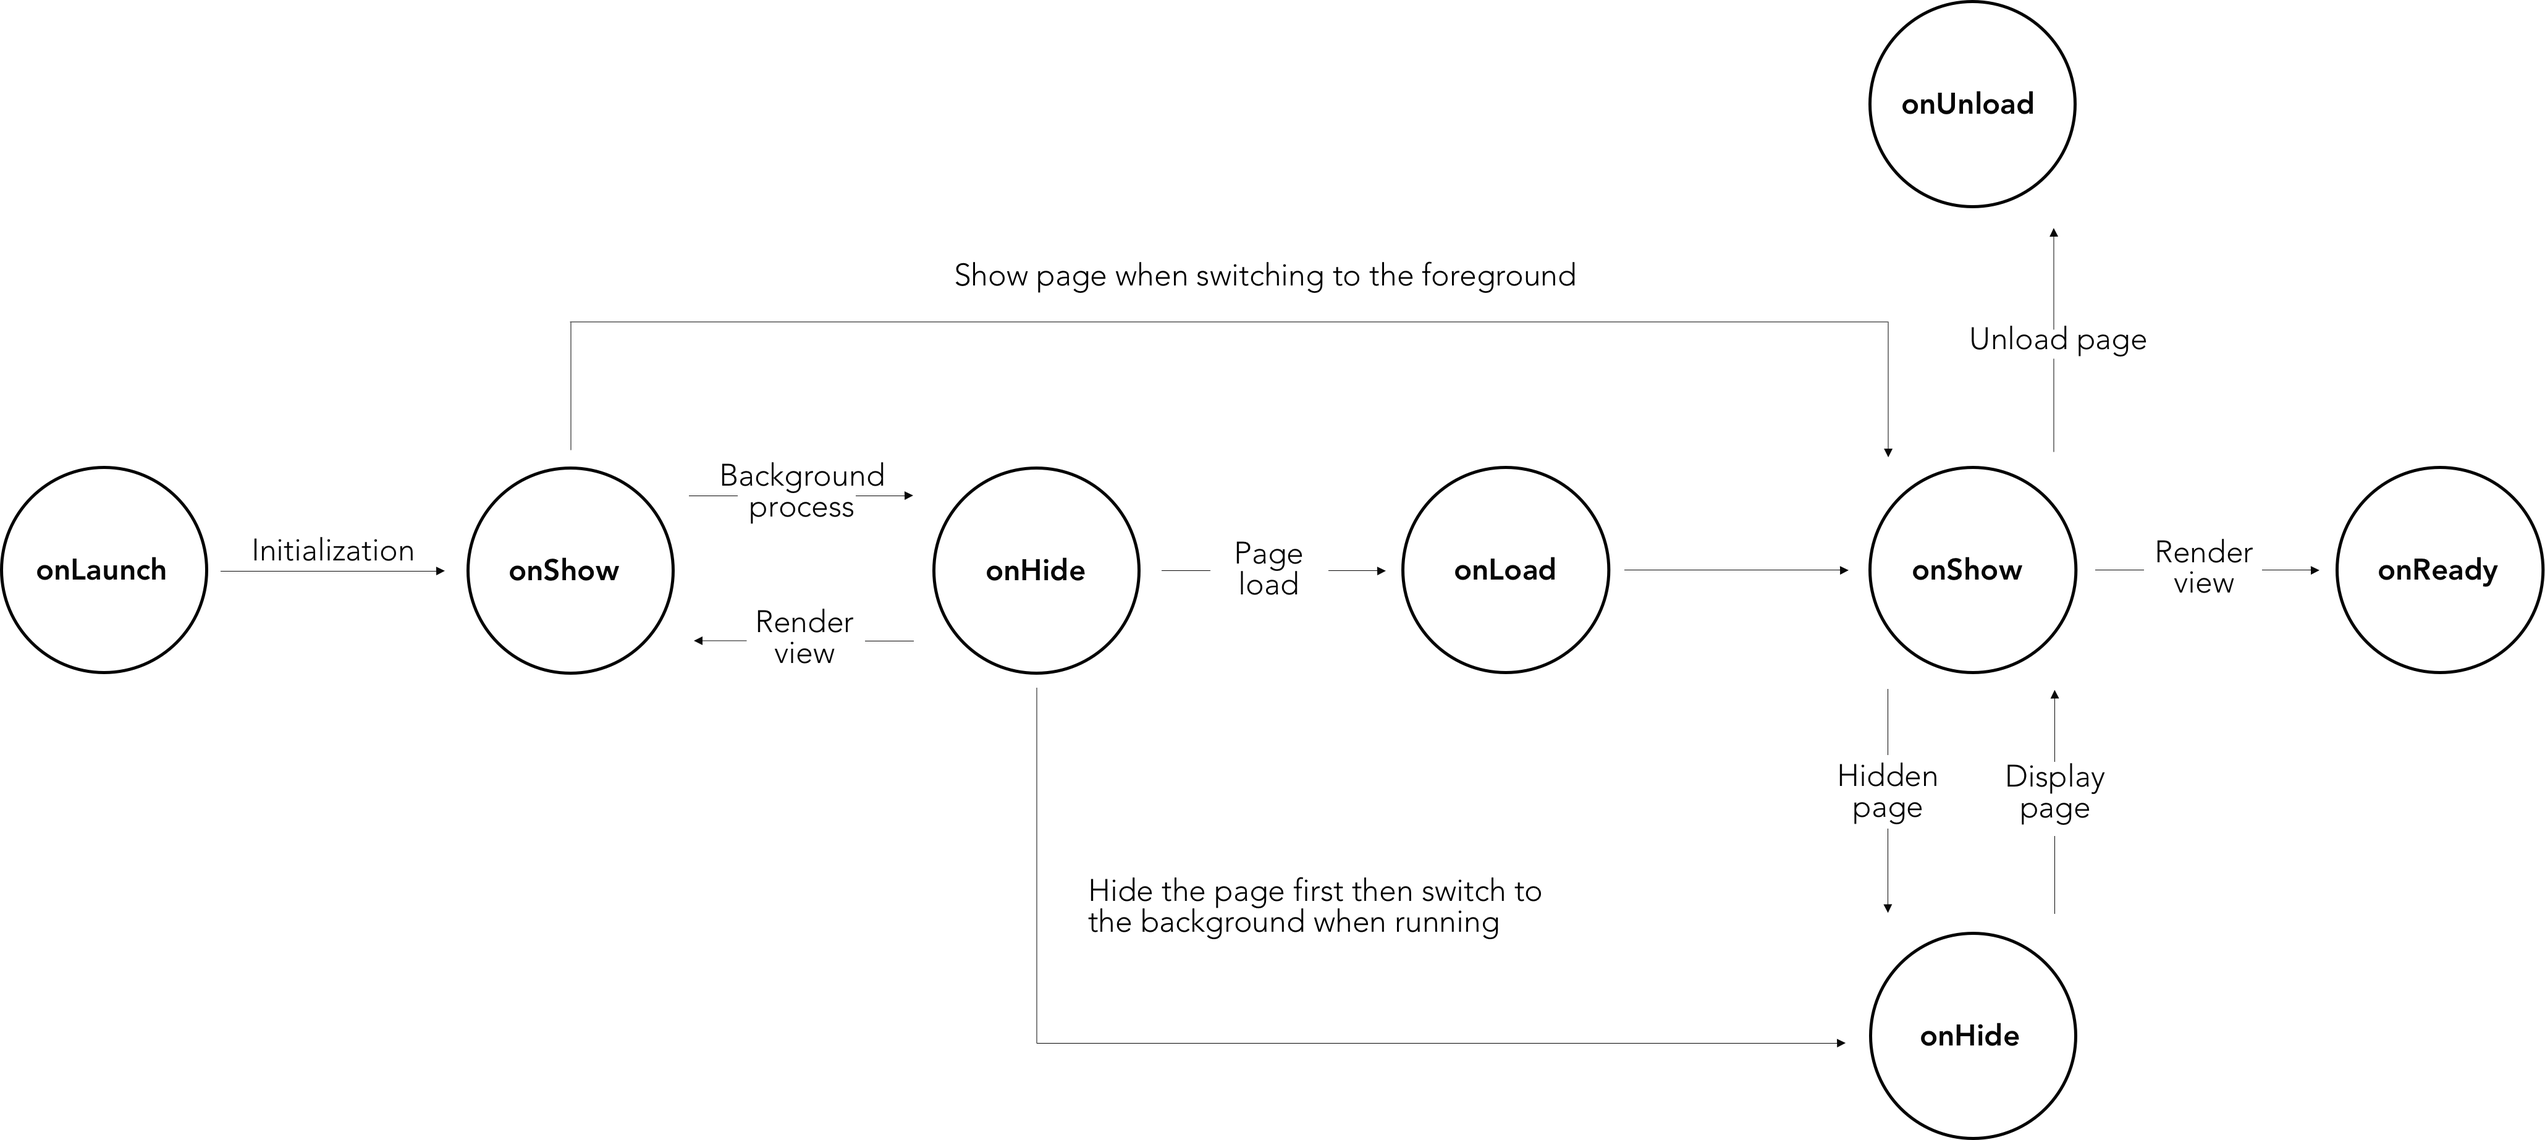
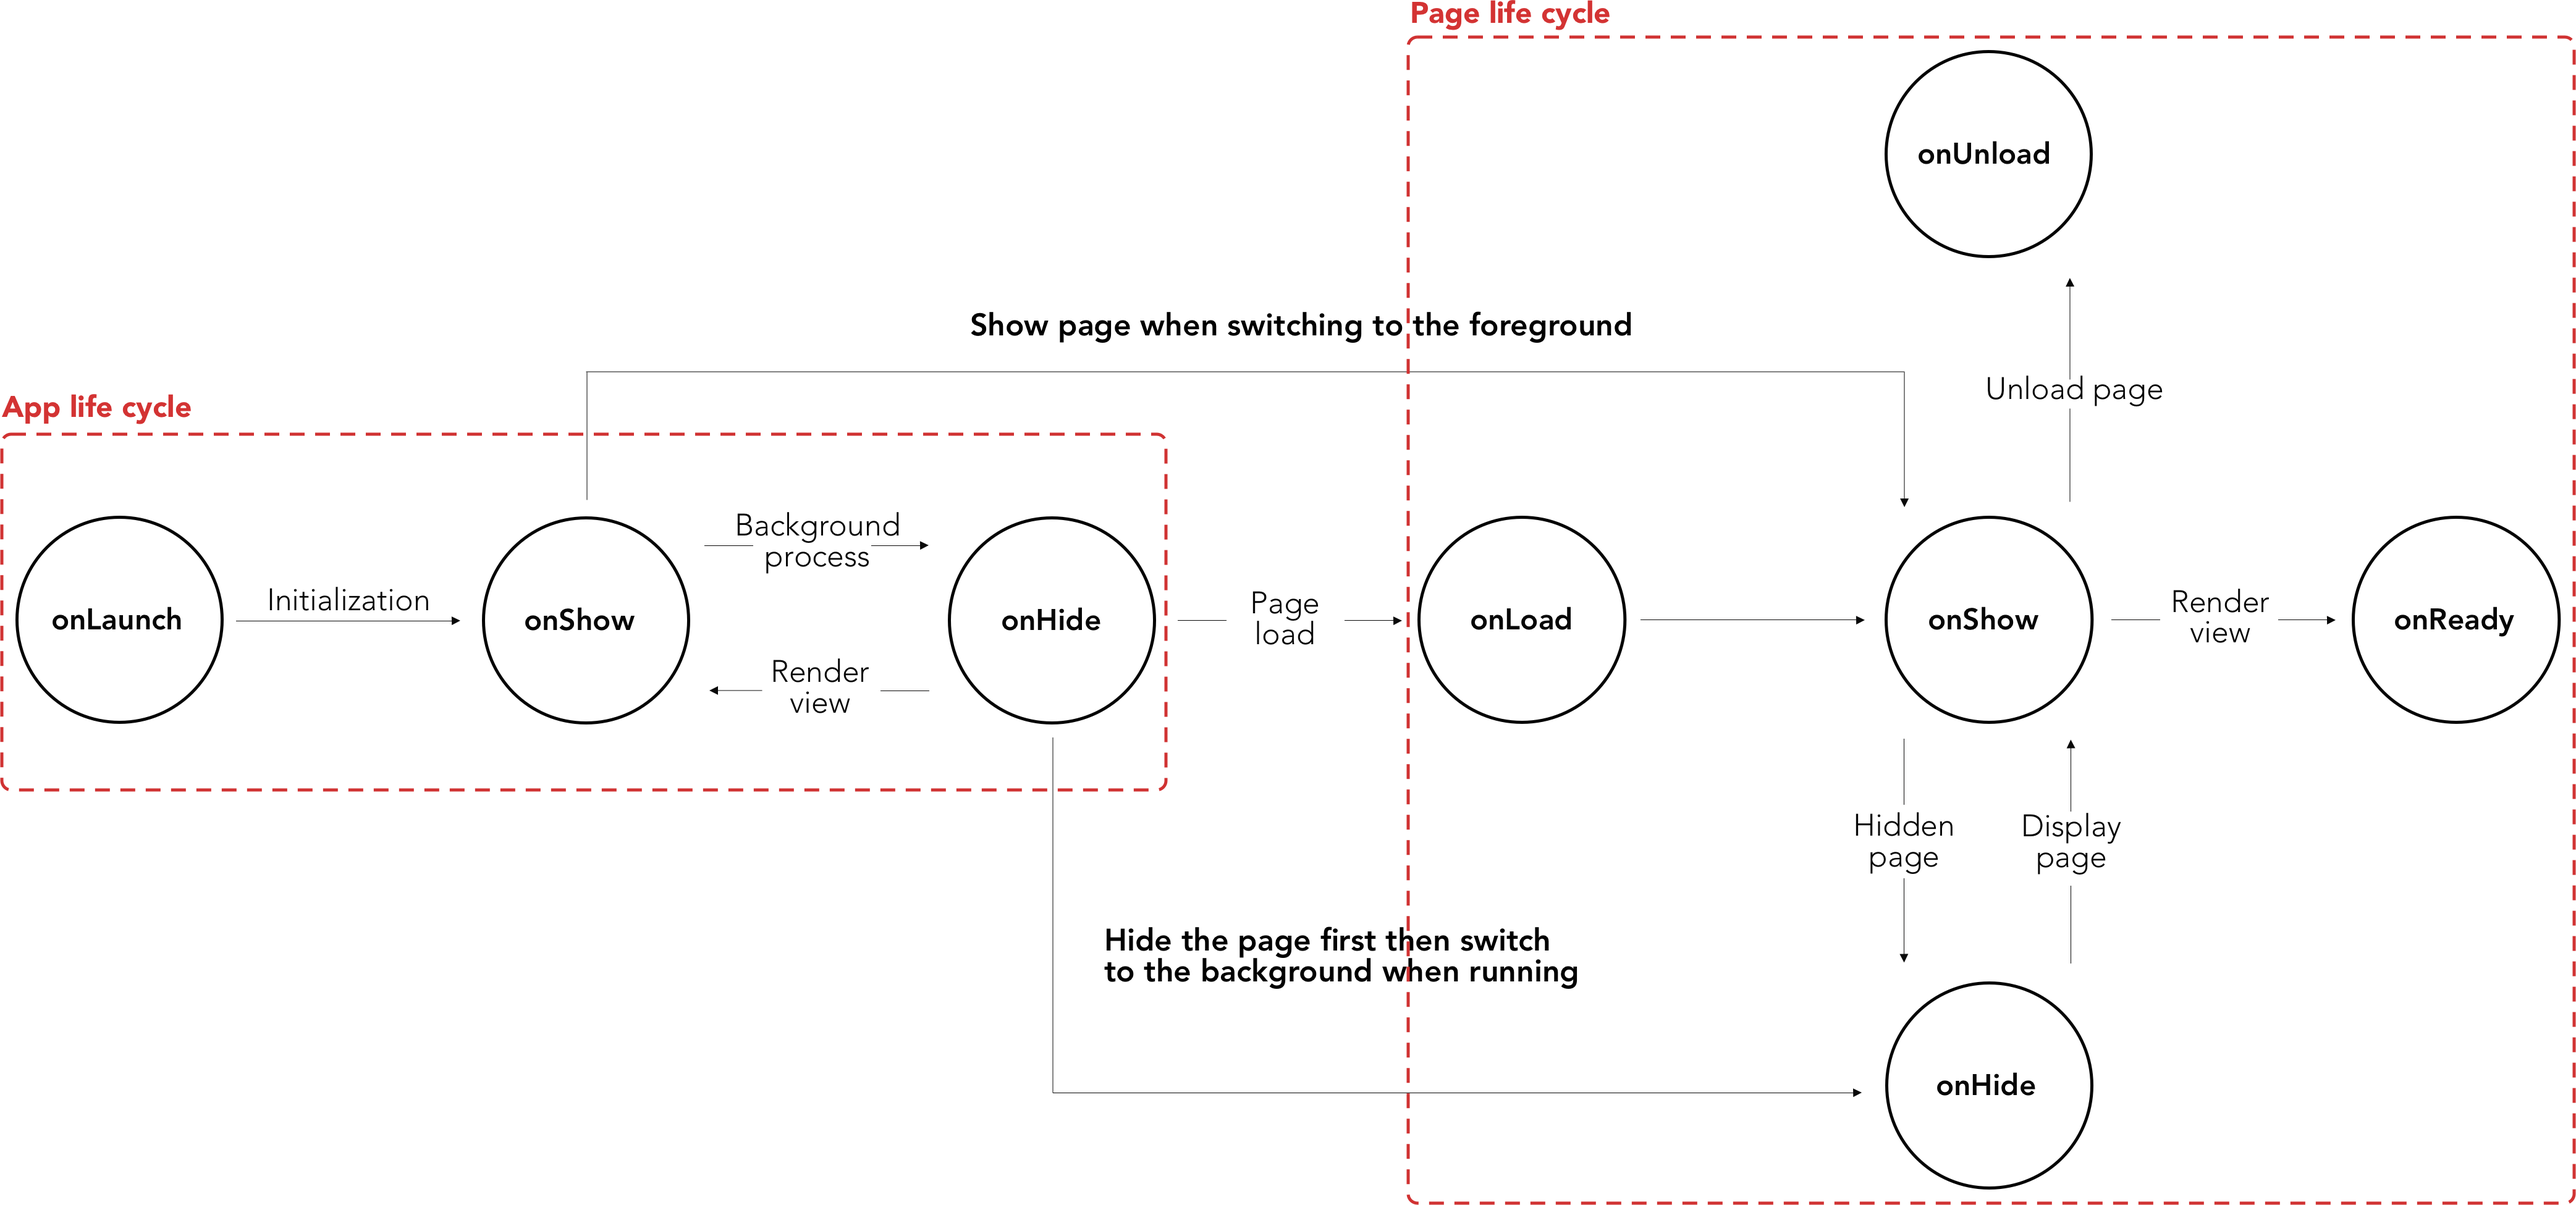
fixed broken links and added visuals

diff --git a/README.md b/README.md
@@ -18,16 +18,17 @@
     - [Window](#window)
     - [Network timeout](#network-timeout)
 - [Create dynamic pages](#create-dynamic-pages)
-    - [WXML / HTML, what's the deal?](#wxml-/-html-whats-the-deal)
-    - [List rendering, wx:for](#list-rendering-wxfor)
-    - [ Conditional rendering, wx:if ; wx:elif ; wx:else](#conditional-rendering-wxif-wxelif-wxelse)
+    - [WXML - HTML, what's the deal?](#wxml---html-whats-the-deal)
+    - [Data binding](#data-binding)
+    - [List rendering: wx:for](#list-rendering-wxfor)
+    - [Conditional rendering: wx:if, wx:elif, wx:else](#conditional-rendering-wxif-wxelif-wxelse)
     - [Template](#template)
     - [Events](#events)
     - [Mini-program sharing](#mini-program-sharing)
-- [WeChat design guidelines](#Wechat-design-guidelines)
+- [WeChat design guidelines](#wechat-design-guidelines)
     - [WXSS](#wxss)
     - [Style import](#style-import)
-- [Built-in components](#built-in-components)
+- [Built-in components](#builtin-components)
     - [Navigator](#navigator)
     - [Scroll view](#scroll-view)
     - [Picker](#picker)
@@ -40,8 +41,9 @@
     - [Module](#module)
 - [WeChat API](#wechat-api)
     - [Get user information](#get-user-information)
+    - [Data cache](#data-cache)
     - [Open the QR code scanner](#open-the-qr-code-scanner)
-    - [Location-base services](#location-base-services)
+    - [Location-base services](#locationbase-services)
     - [Image upload](#image-upload)
 
 ## Registration process
@@ -121,15 +123,15 @@ By clicking on the **preview option** you will be able to test the mini-program 
 ![project information](assets/project-information.png) 
 
 ## Dig into the "quickstart" project
-This section will drag you along the structure of the quickstart project  ([quickstart.zip](images/quickstart.zip)) provided by WeChat and the fundamentals you need to comply with this environment.  
-
+This section will drag you along the structure of the quickstart project  ([quickstart.zip](assets/quickstart.zip)) provided by WeChat and the fundamentals you need to comply with this environment.  
+[a relative link](other_file.md)
 The main page of this quickstart project displays a welcome page with the current user porfile's information. A click on your avatar will redirect to a new page displaying your current mini-program logs.
 
 ### Root directory
 Wechat mini-programs start with **‘app’** files to describe the overall program and your pages. These following files are placed in the root directory of the project and so are the entrance of your mini-program. Here is the official [WeChat documentation](https://mp.weixin.qq.com/debug/wxadoc/dev/framework/structure.html ).
 
 ![root directory](assets/root-directory.png)
-**app.js** is the script code, the global logic of your mini-program. You can setup and manipulate the life cycle functions of your MP, declare global variables or call the API.
+**app.js** is the script code, the global logic of your mini-program. You can setup and manipulate the [life cycle functions](#application-life-cycle) of your MP, declare global variables or call the API.
 
 `Code snippet of the "app.js" file.` 
 
@@ -221,7 +223,7 @@ Page({
   onLoad: function () {
     console.log('onLoad')
     var that = this
-    // Call to the application instance to get data 
+    // Call the application instance to get data 
     app.getUserInfo(function(userInfo){
       // Update data
       that.setData({
@@ -300,7 +302,7 @@ We can break-down a mini-program life cycle in two cycles, the application cycle
 
 ![App life cycle](assets/app-lifecycle.png)  
    
-`Code snippet of the "Ap()" life cycle functions.`
+`Code snippet of the "App()" life cycle functions.`
 
 ```javascript
 App({
@@ -808,13 +810,8 @@ WeChat framework provides to developers a large set of basic components, the [ex
 ### Navigator 
 `<navigator>` is your anchor in html. It is used to link from  one page to another. The most important attribute of the navigator element is `open-type`.
 
-
- **Navigator attributes description:**  
-
- ![navigator attributes description](assets/navigator-table.png)  
  
 `Code snippet  "navigator" example. `
-` 
  
 ```html
 <!-- .wxml -->
@@ -824,6 +821,12 @@ WeChat framework provides to developers a large set of basic components, the [ex
   <navigator url="/pages/index/index" open-type="switchTab" hover-class="other-navigator-hover">tab switching</navigator>
 </view>
 ```   
+
+
+ **Navigator attributes description:**  
+
+ ![navigator attributes description](assets/navigator-table.png)  
+
      
  **Open type values description:**  
  
@@ -832,12 +835,6 @@ WeChat framework provides to developers a large set of basic components, the [ex
 ### Scroll view 
 Scroll views has one main purpose, it lets users drag the area of the content they want to display. Mostly used to scroll content that will not fit entirely on the screen.
 Scroll view can  be divided into horizontal and vertical scrolling.  
-
-**Scroll view attributes description:**  
-
- ![navigator attributes description](assets/scroll-view-table.png)  
- 
-**Note:** whenever using vertical scroll, you must set the height in WXSS otherwise scroll will not take effect.
 
 `Code snippet  "vertical scroll view" example.`
 
@@ -851,7 +848,7 @@ Scroll view can  be divided into horizontal and vertical scrolling.
   <view id="blue" class="scroll-view-item bc_blue"></view>
 </scroll-view>
 ```
-
+**Note:** whenever using vertical scroll, you must set the height in WXSS otherwise scroll will not take effect.
  
 ```javascript
 // .js
@@ -872,15 +869,17 @@ Page({
 }) 
 ```
 
+**Scroll view attributes description:**  
+
+ ![navigator attributes description](assets/scroll-view-table.png)  
+ 
 
 ### Picker  
 
 Picker component in WeChat documentation is divided in three selectors, classic selector which is the default one, time selector and date selector. The use case below is based on the date picker but the logic remains the same for another picker.
 
-**Date selector attributes:**   
+  ![open type value description](assets/date-picker.png)  
 
- ![date picker description](assets/date-picker-table.png)  
- 
 `Code snippet "date picker" example.`
   
 ```html
@@ -904,14 +903,16 @@ Page({
 })   
 ```
 
+**Date selector attributes:**   
+
+ ![date picker description](assets/date-picker-table.png)  
+ 
+
 ### Switch
 A switch is a visual toggle with two states, on and off.  
 
  ![switch image](assets/switch-img.png)  
-   
- **Switch attributes:**  
- 
- ![switch table](assets/switch-table.png)   
+    
 
 `Code snippet "switch" example.` 
   
@@ -935,18 +936,30 @@ Page({
 })
 ```
 
+ **Switch attributes:**  
+ 
+ ![switch table](assets/switch-table.png)  
+
 ### Toast  
 A toast is a non-modal element used to display brief and auto-expiring components to **inform users.**
 
  ![switch image](assets/toast-img.png) 
  
- `Code snippet "toast" example.`
+ `Code snippet "spinner btn and toast" example.`
    
 ```html
 <!-- .wxml -->
 <button type="primary" form-type="submit" loading="{{loading}}">Send</button>
 ```   
+In the code snippet above we created a **dynamic button** with a **purpose of  submitting a form**. The button is animated 
+by a [loading spinner](https://weui.io/#loadmore) when you click on it. 
+
+ ![switch image](assets/btn-spinner.png)
+ 
+Then we display a toast  by using `wx.showToast` API  to inform users. 
+
 ```javascript
+// .js
 Page({
   data:{
     loading: false
@@ -962,14 +975,20 @@ Page({
     duration: 1500
  })
 }) 
-``` 
+```  
+ 
+
+
+
+
 
 ## Leancloud DB
-If you want to collect user inputs and persist data then a tool like Leancloud is appropriate.  Appropriate because it persists the data and provides a dashboard to readily access the data collected to reuse it on purpose.
 
-In this case we want to collect user inputs  through a form which makes sense that we need to setup Leancloud. 
+To give you some context, this Leancloud tutorial is based on a mini-program that has been developed in a purpose of gathering feedback through a form. Here is the [Github reposistory](https://github.com/apelegri/wagonform-wechat-mp) of this mini-program.
 
-Unless you have specific debugging needs,  if you are in development white list your domain name by checking up the last checkbox of your project tab in WeChat IDE. 
+If you want to collect and persist data in your MP, a tool like Leancloud is simple and makes the job done. It is  a good fit because it provides a dashboard to readily access the data collected and reuse it on purpose.
+
+Unless you have specific debugging needs,  if you are in development white list your domain name by checking up the last checkbox of your project tab in [WeChat IDE](#wechat-ide).
 For specific debugging needs you can follow this [leancloud tutorial](https://leancloud.cn/docs/weapp-domains.html).
 
 To begin with Leancloud setup, [sign up](https://leancloud.cn/dashboard/login.html#/signup) .   
@@ -1042,7 +1061,7 @@ We created an intermediate step, to assign user input we collect to variables. T
 **Persist data to Leancloud:** [Leancloud data storage guide](https://leancloud.cn/docs/leanstorage_guide-js.html)   
 In the function `bindformSubmit` we create a new `Form `object and `save` data. We also call `setACL(acl)` property on the object which is a **Leancloud built-in property.**
 
-Now that we have saved data we would like to  send it to Leancloud through the use of module (see below). 
+Now that we have saved data we would like to  send it to Leancloud through the use of [module](#module). 
 
 ```javascript 
 //model/form.js
@@ -1123,6 +1142,7 @@ Page({
 ```
 
 In the **index.js** the `onLoad` function call  `getUserInfo`  function **on the app instance** and **define a function as a parameter**. Here, they update `userInfo` to current user information. And pass `userInfo`updated from the **index.js** to `globalData`  in the **app.js** file. 
+
 **Debrief:**  
 If `userInfo` is null `getUserInfo` function returns the `else` statement which call the login interface. After that the current user successfully log in, `getUserInfo` is called and act as the `if` block we saw above. 
 
@@ -1156,7 +1176,7 @@ wx.setStorage ({key: 'name', data: 'Thibault'});
 - The asynchronous method, used `wx.setStorageSync` syntax,  which get the data through the incoming callback function.
  
  ```javascript
-wx.setStorageSync ('name', 'thibault');
+wx.setStorageSync ('name', 'Thibault');
 ```
 
  `wx.setStorageSync` syntax is simpler,  parameters are directly passed into `wx.setStorageSync`. 
@@ -1242,7 +1262,7 @@ The API provides services like `wx.openLocation`  to display locations on their 
 
 ```html
 <!-- .wxml --> 
-<button id="0" type="primary" bindtap="listenerBtnGetLocation">Get location</button>
+<button type="primary" bindtap="listenerBtnGetLocation">Get location</button>
 ```   
 
 ```javascript
